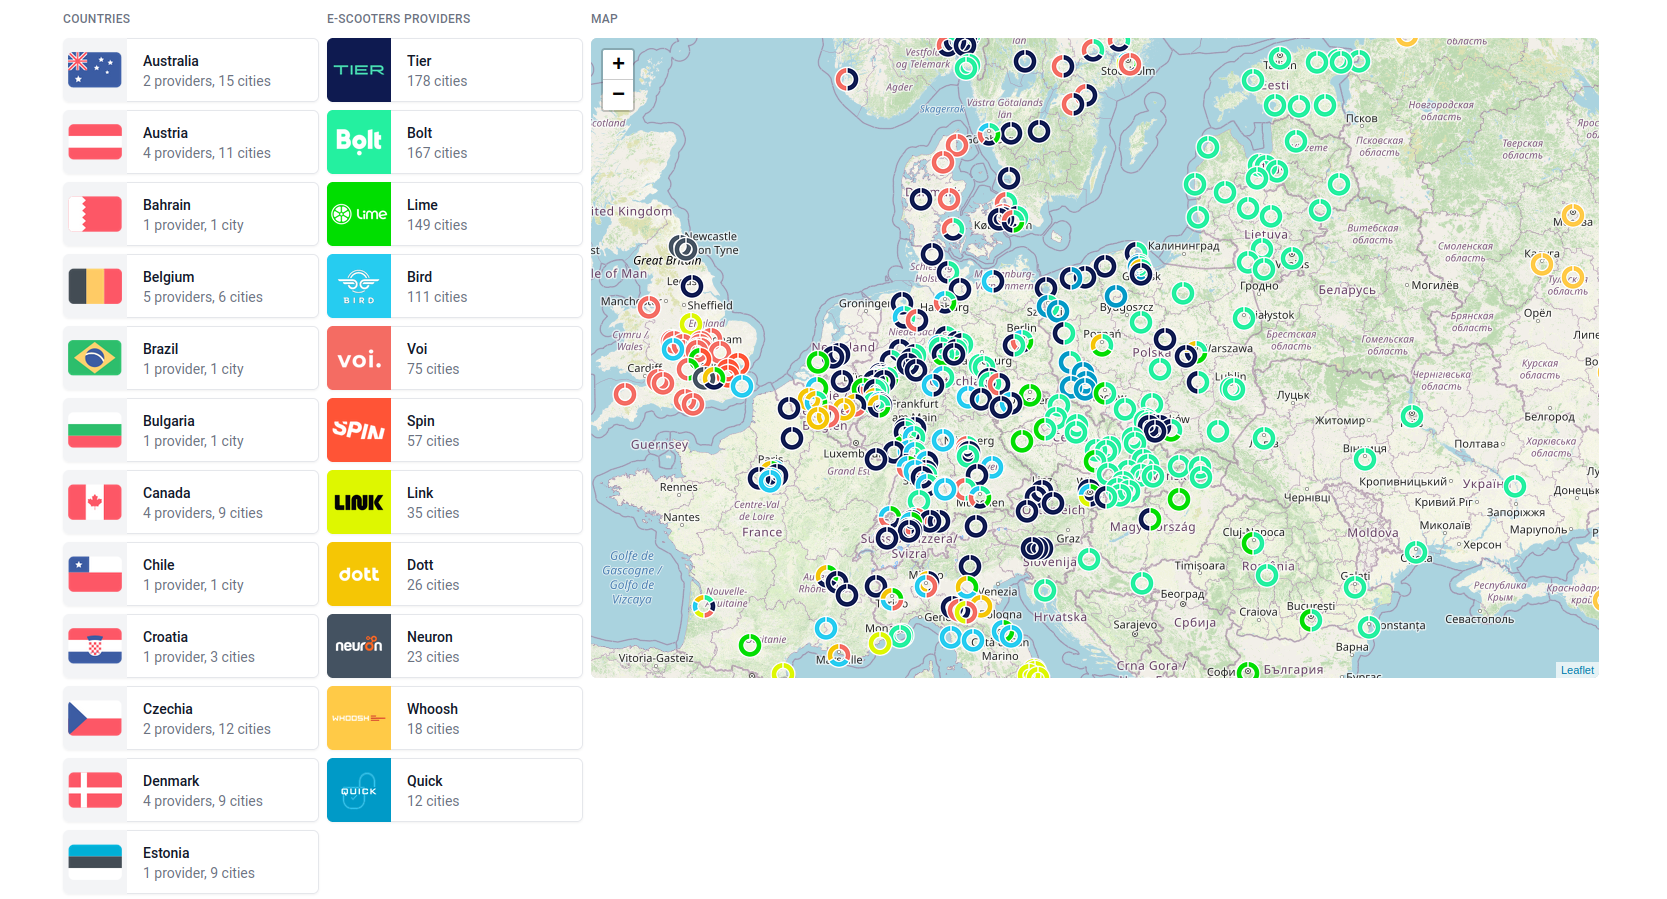
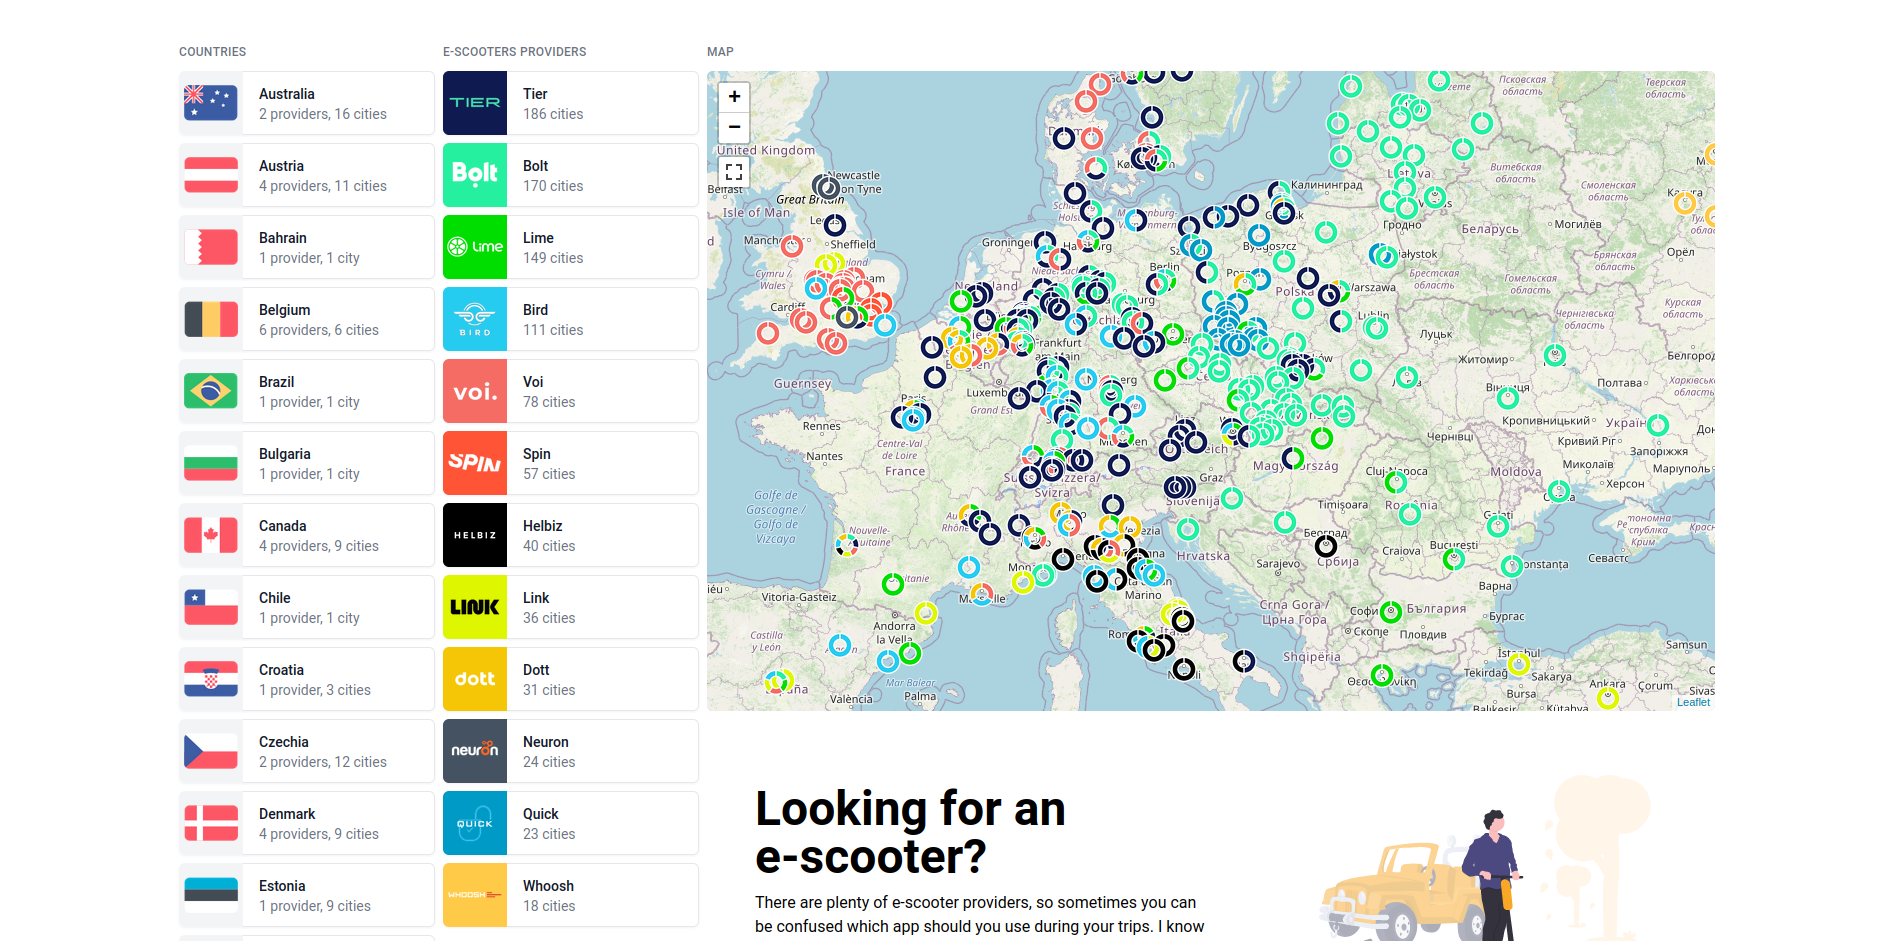
#6 - post-first deploy fixes (#8)
* #2 - Helbiz provider added

* #2 - readme update

* #6 - static files added

* #6 - ecsf

* #6 - post-deploy fixes

diff --git a/public/index.html b/public/index.html
@@ -6,6 +6,7 @@
         <link rel="stylesheet" href="https://unpkg.com/tailwindcss@^2/dist/tailwind.min.css">
         <link rel="stylesheet" href="https://cdn.jsdelivr.net/gh/krzysztofrewak/flat-flags-iconset@latest/style.css">
         <link rel="stylesheet" href="https://unpkg.com/leaflet@1.7.1/dist/leaflet.css">
+        <link rel="stylesheet" href="https://api.mapbox.com/mapbox.js/plugins/leaflet-fullscreen/v1.0.1/leaflet.fullscreen.css">
         <style>
             #map {
                 height: 640px;
@@ -14,97 +15,101 @@
     </head>
 
     <body>
-        <div class="container mx-auto flex justify-center items-center bg-white p-12 mb-12">
-            <div class="pr-24">
-                <h1 class="text-5xl font-bold">
-                    Looking for an e-scooter?
-                </h1>
-                <p class="pt-3">There are plenty of e-scooter providers, so sometimes you can be confused which app should you use during your trips. I know this problem. This little map can help you with planning your vacations or business trips.</p>
-            </div>
-            <div class="p-4">
-                <img src="./undraw_scooter.svg" alt="Man riding a e-scooter" class="mx-auto">
-            </div>
-        </div>
-
-        <div class="container mx-auto flex" id="application">
-            <div class="w-64">
-                <h2 class="text-gray-500 text-xs font-medium uppercase tracking-wide">
-                    Countries
-                </h2>
-                <ul role="list" class="mt-3 grid grid-cols-1 gap-2">
-                    <li class="h-16 col-span-1 flex shadow-sm rounded-md cursor-pointer"
-                            v-show="!selected.provider || country.providers.includes(selected.provider)"
-                            v-for="country in countries"
-                            @click="selectCountry(country)"
-                            :class="{ 'opacity-25': selected.country && selected.country !== country.code }">
-                        <div class="flex-shrink-0 flex items-center bg-gray-100 justify-center w-16 rounded-l-md">
-                            <i class="huge flat flag" :class="country.code"></i>
-                        </div>
-                        <div class="flex-1 flex items-center justify-between border-t border-r border-b border-gray-200 bg-white rounded-r-md truncate">
-                            <div class="flex-1 px-4 py-2 text-sm truncate">
-                                <span class="text-gray-900 font-medium">{{ country.name }}</span>
-                                <p class="text-gray-500">
-                                    {{ country.providers.length }} {{ pluralize('provider', country.providers.length) }},
-                                    {{ country.cities.length }} {{ pluralize('city', country.cities.length) }}
-                                </p>
+        <div id="application">
+            <div class="container mx-auto flex mt-12">
+                <div class="w-64">
+                    <h2 class="text-gray-500 text-xs font-medium uppercase tracking-wide">
+                        Countries
+                    </h2>
+                    <ul role="list" class="mt-3 grid grid-cols-1 gap-2">
+                        <li class="h-16 col-span-1 flex shadow-sm rounded-md cursor-pointer"
+                                v-show="!selected.provider || country.providers.includes(selected.provider)"
+                                v-for="country in countries"
+                                @click="selectCountry(country)"
+                                :class="{ 'opacity-25': selected.country && selected.country !== country.code }">
+                            <div class="flex-shrink-0 flex items-center bg-gray-100 justify-center w-16 rounded-l-md">
+                                <i class="huge flat flag" :class="country.code"></i>
                             </div>
-                        </div>
-                    </li>
-                </ul>
-            </div>
-
-            <div class="w-64 ml-2">
-                <h2 class="text-gray-500 text-xs font-medium uppercase tracking-wide">
-                    E-scooters providers
-                </h2>
-                <ul role="list" class="mt-3 grid grid-cols-1 gap-2">
-                    <li class="h-16 col-span-1 flex shadow-sm rounded-md cursor-pointer"
-                            v-show="!selected.country || provider.countries.includes(selected.country)"
-                            v-for="provider in providers"
-                            @click="selectProvider(provider)"
-                            :class="{ 'opacity-25': selected.provider && selected.provider !== provider.id }">
-                        <div class="flex-shrink-0 flex items-center justify-center bg-gray-200 w-16 rounded-l-md" :style="'background: ' + provider.background">
-                            <img :src="provider.logo" alt="">
-                        </div>
-                        <div class="flex-1 flex items-center justify-between border-t border-r border-b border-gray-200 bg-white rounded-r-md truncate">
-                            <div class="flex-1 px-4 py-2 text-sm truncate">
-                                <span class="text-gray-900 font-medium">{{ provider.name }}</span>
-                                <p class="text-gray-500">{{ provider.cities }} cities</p>
+                            <div class="flex-1 flex items-center justify-between border-t border-r border-b border-gray-200 bg-white rounded-r-md truncate">
+                                <div class="flex-1 px-4 py-2 text-sm truncate">
+                                    <span class="text-gray-900 font-medium">{{ country.name }}</span>
+                                    <p class="text-gray-500">
+                                        {{ country.providers.length }} {{ pluralize('provider', country.providers.length) }},
+                                        {{ country.cities.length }} {{ pluralize('city', country.cities.length) }}
+                                    </p>
+                                </div>
                             </div>
-                        </div>
-                    </li>
-                </ul>
-            </div>
+                        </li>
+                    </ul>
+                </div>
 
-            <div class="flex-1 ml-2">
-                <h2 class="text-gray-500 text-xs font-medium uppercase tracking-wide mb-3">Map</h2>
-                <div id="map">
-                    <l-map class="rounded-md" :zoom="3" ref="map">
-                        <l-tile-layer :url="layer"></l-tile-layer>
-                        <l-marker v-for="marker in markers" :lat-lng="marker.coordinates" :name="marker.name">
-                            <l-tooltip :options="{ direction: 'right', offset: [16, 2] }">
-                                <i class="flat flag" :class="marker.country"></i>
-                                {{ marker.name }}:
-                                <span class="capitalize">
-                                    {{ marker.providers.join(", ") }}
+                <div class="w-64 ml-2">
+                    <h2 class="text-gray-500 text-xs font-medium uppercase tracking-wide">
+                        E-scooters providers
+                    </h2>
+                    <ul role="list" class="mt-3 grid grid-cols-1 gap-2">
+                        <li class="h-16 col-span-1 flex shadow-sm rounded-md cursor-pointer"
+                                v-show="!selected.country || provider.countries.includes(selected.country)"
+                                v-for="provider in providers"
+                                @click="selectProvider(provider)"
+                                :class="{ 'opacity-25': selected.provider && selected.provider !== provider.id }">
+                            <div class="flex-shrink-0 flex items-center justify-center bg-gray-200 w-16 rounded-l-md" :style="'background: ' + provider.background">
+                                <img :src="provider.logo" alt="">
+                            </div>
+                            <div class="flex-1 flex items-center justify-between border-t border-r border-b border-gray-200 bg-white rounded-r-md truncate">
+                                <div class="flex-1 px-4 py-2 text-sm truncate">
+                                    <span class="text-gray-900 font-medium">{{ provider.name }}</span>
+                                    <p class="text-gray-500">{{ provider.cities }} cities</p>
+                                </div>
+                            </div>
+                        </li>
+                    </ul>
+                </div>
+
+                <div class="flex-1 ml-2">
+                    <h2 class="text-gray-500 text-xs font-medium uppercase tracking-wide mb-3">Map</h2>
+                    <div id="map">
+                        <l-map class="rounded-md" :zoom="3" ref="map">
+                            <l-tile-layer :url="layer"></l-tile-layer>
+                            <l-marker v-for="marker in markers" :lat-lng="marker.coordinates" :name="marker.name">
+                                <l-tooltip :options="{ direction: 'right', offset: [16, 2] }">
+                                    <i class="flat flag" :class="marker.country"></i>
+                                    {{ marker.name }}:
+                                    <span class="capitalize">
+                                    {{ marker.providers.join(', ') }}
                                 </span>
-                            </l-tooltip>
-                            <l-icon :icon-size="dynamicSize" :icon-anchor="dynamicAnchor" :icon-url="marker.icon"></l-icon>
-                        </l-marker>
-                    </l-map>
+                                </l-tooltip>
+                                <l-icon :icon-size="dynamicSize" :icon-anchor="dynamicAnchor" :icon-url="marker.icon"></l-icon>
+                            </l-marker>
+                        </l-map>
+                    </div>
+
+                    <div class="container mx-auto flex justify-center items-center bg-white p-12 mb-12">
+                        <div class="pr-24">
+                            <h1 class="text-5xl font-bold">
+                                Looking for an e-scooter?
+                            </h1>
+                            <p class="pt-3">There are plenty of e-scooter providers, so sometimes you can be confused which app should you use during your trips. I know this problem. This little map can help you with planning your vacations or business trips.</p>
+                        </div>
+                        <div class="p-4">
+                            <img src="./undraw_scooter.svg" alt="Man riding a e-scooter" class="mx-auto">
+                        </div>
+                    </div>
                 </div>
             </div>
-        </div>
 
-        <footer class="container mx-auto my-12 text-gray-500 text-right text-sm">
-            <span class="mx-5">last build: 2022-02-11 15:25:34</span>
-            <span class="mx-5">Blumilk &copy; 2022</span>
-        </footer>
+            <footer class="container mx-auto my-12 text-gray-500 text-right text-sm">
+                <span class="mx-5">last build: {{ buildTimestamp }}</span>
+                <span class="mx-5">Krzysztof Rewak &copy; 2022</span>
+            </footer>
+        </div>
     </body>
 
     <script src="https://cdn.jsdelivr.net/npm/vue/dist/vue.js"></script>
     <script src="https://unpkg.com/leaflet@1.7.1/dist/leaflet.js"></script>
+    <script src="https://api.mapbox.com/mapbox.js/plugins/leaflet-fullscreen/v1.0.1/Leaflet.fullscreen.min.js"></script>
     <script src="//unpkg.com/vue2-leaflet"></script>
+
     <script type="text/javascript">
       class Provider {
         constructor (id, name, cities, countries, background) {
@@ -145,6 +150,7 @@
             providers: [],
             countries: [],
             cities: [],
+            buildTimestamp: '',
             selected: {
               country: '',
               provider: ''
@@ -234,6 +240,12 @@
           }
         },
         mounted () {
+          const map = this.$refs.map.mapObject
+          map.addControl(new L.Control.Fullscreen())
+
+          fetch('./data/info.json').then(response => response.json()).then(data => {
+            this.buildTimestamp = data.timestamp
+          })
           fetch('./data/cities.json').then(response => response.json()).then(data => {
             for (const code in data) {
               let city = data[code]

diff --git a/index.php b/index.php
@@ -21,6 +21,7 @@ use EScooters\Models\Repositories\Countries;
 use EScooters\Models\Repositories\Providers;
 use EScooters\Services\MapboxGeocodingService;
 use EScooters\Services\QuickChartIconsService;
+use EScooters\Utils\BuildInfo;
 
 Dotenv::createImmutable(__DIR__)->load();
 $token = $_ENV["VUE_APP_MAPBOX_TOKEN"];
@@ -45,7 +46,8 @@ $dataImporters = [
     new DottDataImporter($cities, $countries),
 ];
 
-echo "Build date: " . date("Y-m-d H:i:s") . PHP_EOL . PHP_EOL;
+$timestamp = date("Y-m-d H:i:s");
+echo "Build date: $timestamp" . PHP_EOL . PHP_EOL;
 
 foreach ($dataImporters as $dataImporter) {
     try {
@@ -69,6 +71,13 @@ $mapbox->setCoordinatesToCities($cities);
 $mapbox = new QuickChartIconsService();
 $mapbox->generateCityIcons($cities);
 
+$info = new BuildInfo(
+    timestamp: $timestamp,
+    citiesCount: $count,
+    providersCount: count($providers->jsonSerialize()),
+);
+
 file_put_contents("./public/data/cities.json", json_encode($cities, JSON_UNESCAPED_UNICODE));
 file_put_contents("./public/data/countries.json", json_encode($countries, JSON_UNESCAPED_UNICODE));
 file_put_contents("./public/data/providers.json", json_encode($providers, JSON_UNESCAPED_UNICODE));
+file_put_contents("./public/data/info.json", json_encode($info, JSON_UNESCAPED_UNICODE));

diff --git a/src/Importers/TierDataImporter.php b/src/Importers/TierDataImporter.php
@@ -44,7 +44,13 @@ class TierDataImporter extends DataImporter implements JsonDataSource
 
             $cities = explode(",", $entry["headline"]);
             foreach ($cities as $cityName) {
-                $city = $this->cities->retrieve(trim($cityName), $country);
+                $cityName = trim($cityName);
+
+                if ($cityName === "Kundtjänst" || $cityName === "Dornbirndie") {
+                    continue;
+                }
+
+                $city = $this->cities->retrieve($cityName, $country);
                 $this->provider->addCity($city);
             }
         }

diff --git a/src/Utils/BuildInfo.php b/src/Utils/BuildInfo.php
@@ -1,0 +1,25 @@
+<?php
+
+declare(strict_types=1);
+
+namespace EScooters\Utils;
+
+use JsonSerializable;
+
+class BuildInfo implements JsonSerializable
+{
+    public function __construct(
+        protected string $timestamp,
+        protected int $citiesCount,
+        protected int $providersCount
+    ) {    }
+
+    public function jsonSerialize(): array
+    {
+        return [
+            "timestamp" => $this->timestamp,
+            "citiesCount" => $this->citiesCount,
+            "providersCount" => $this->providersCount,
+        ];
+    }
+}
